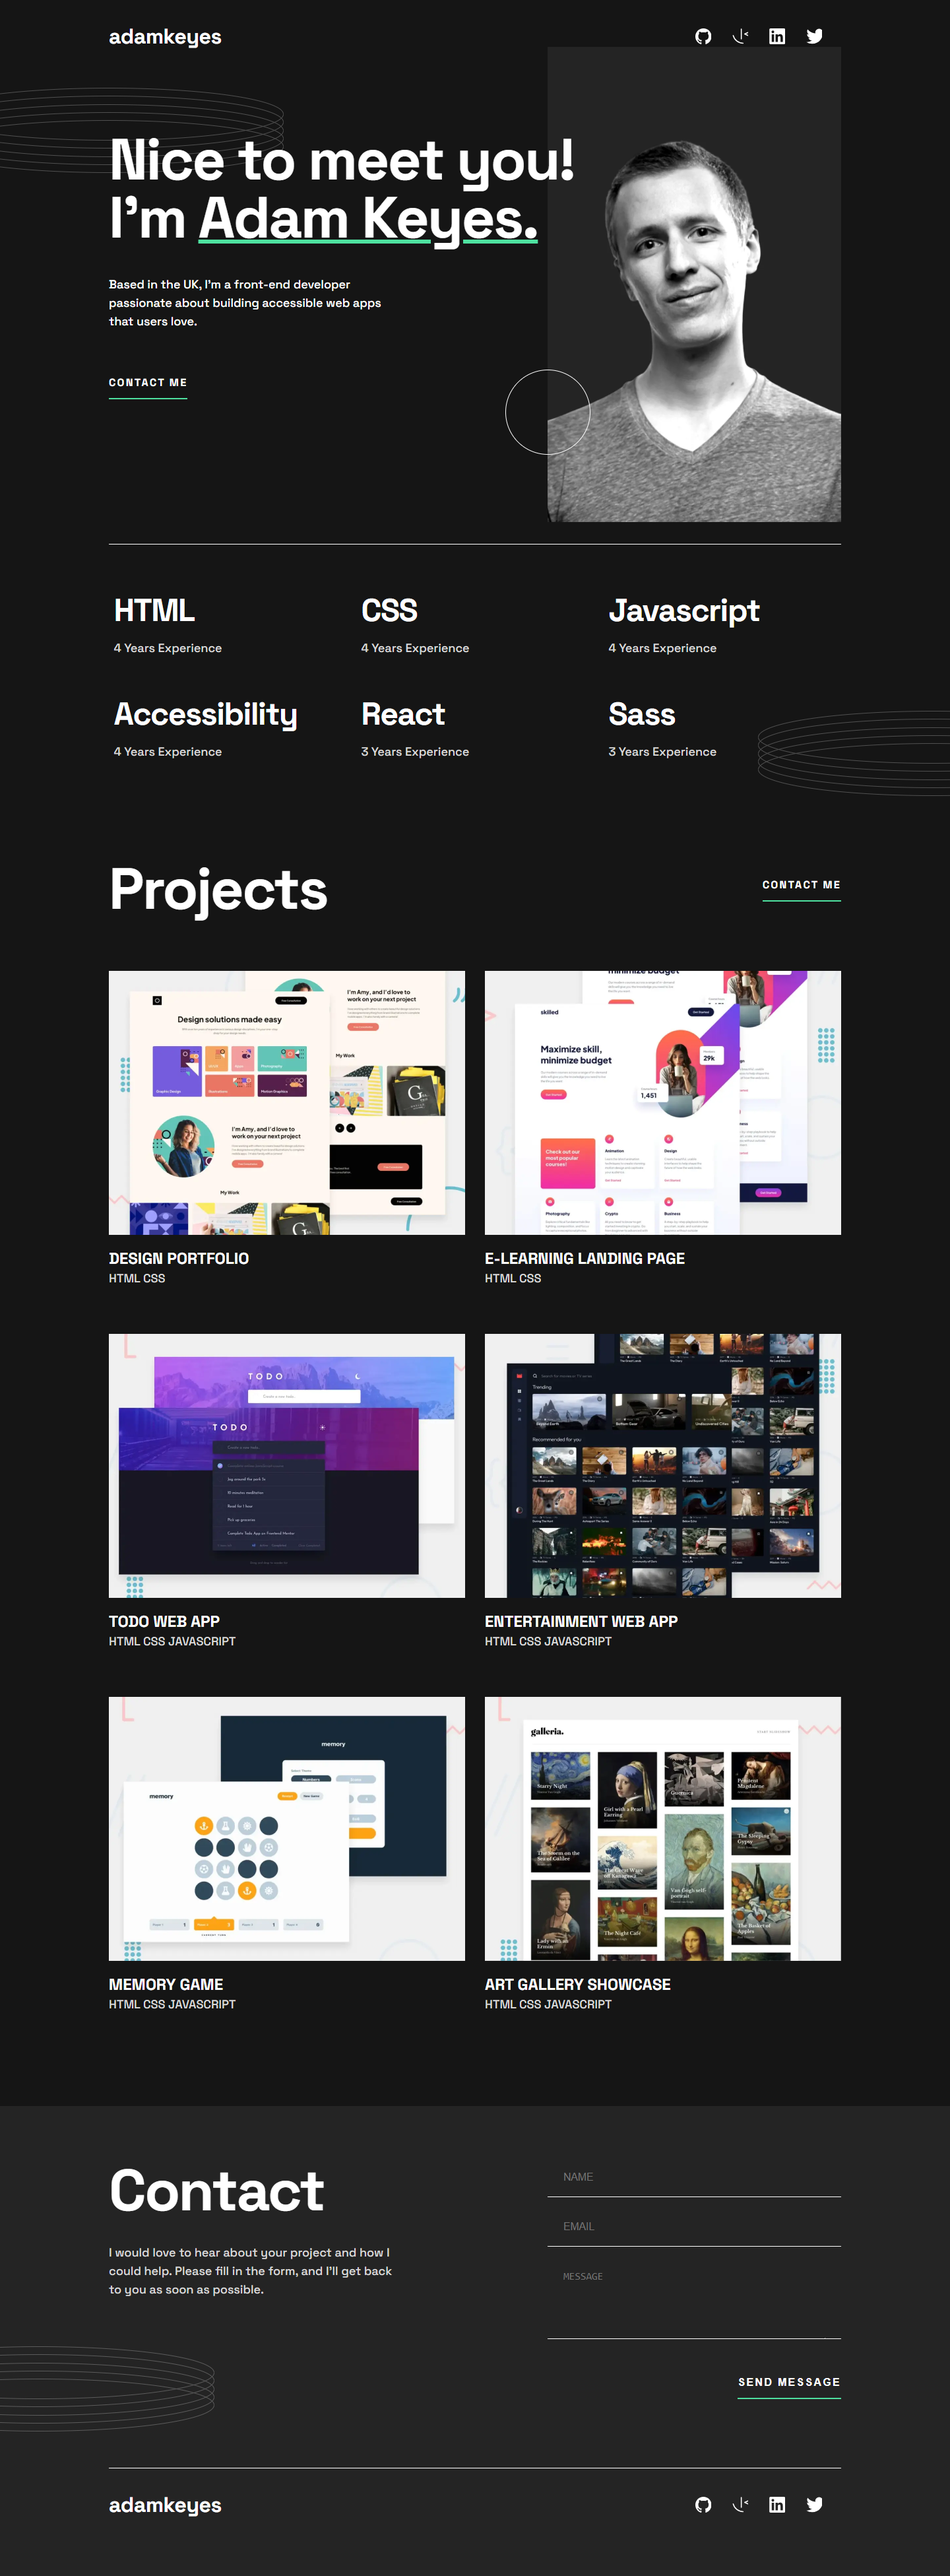
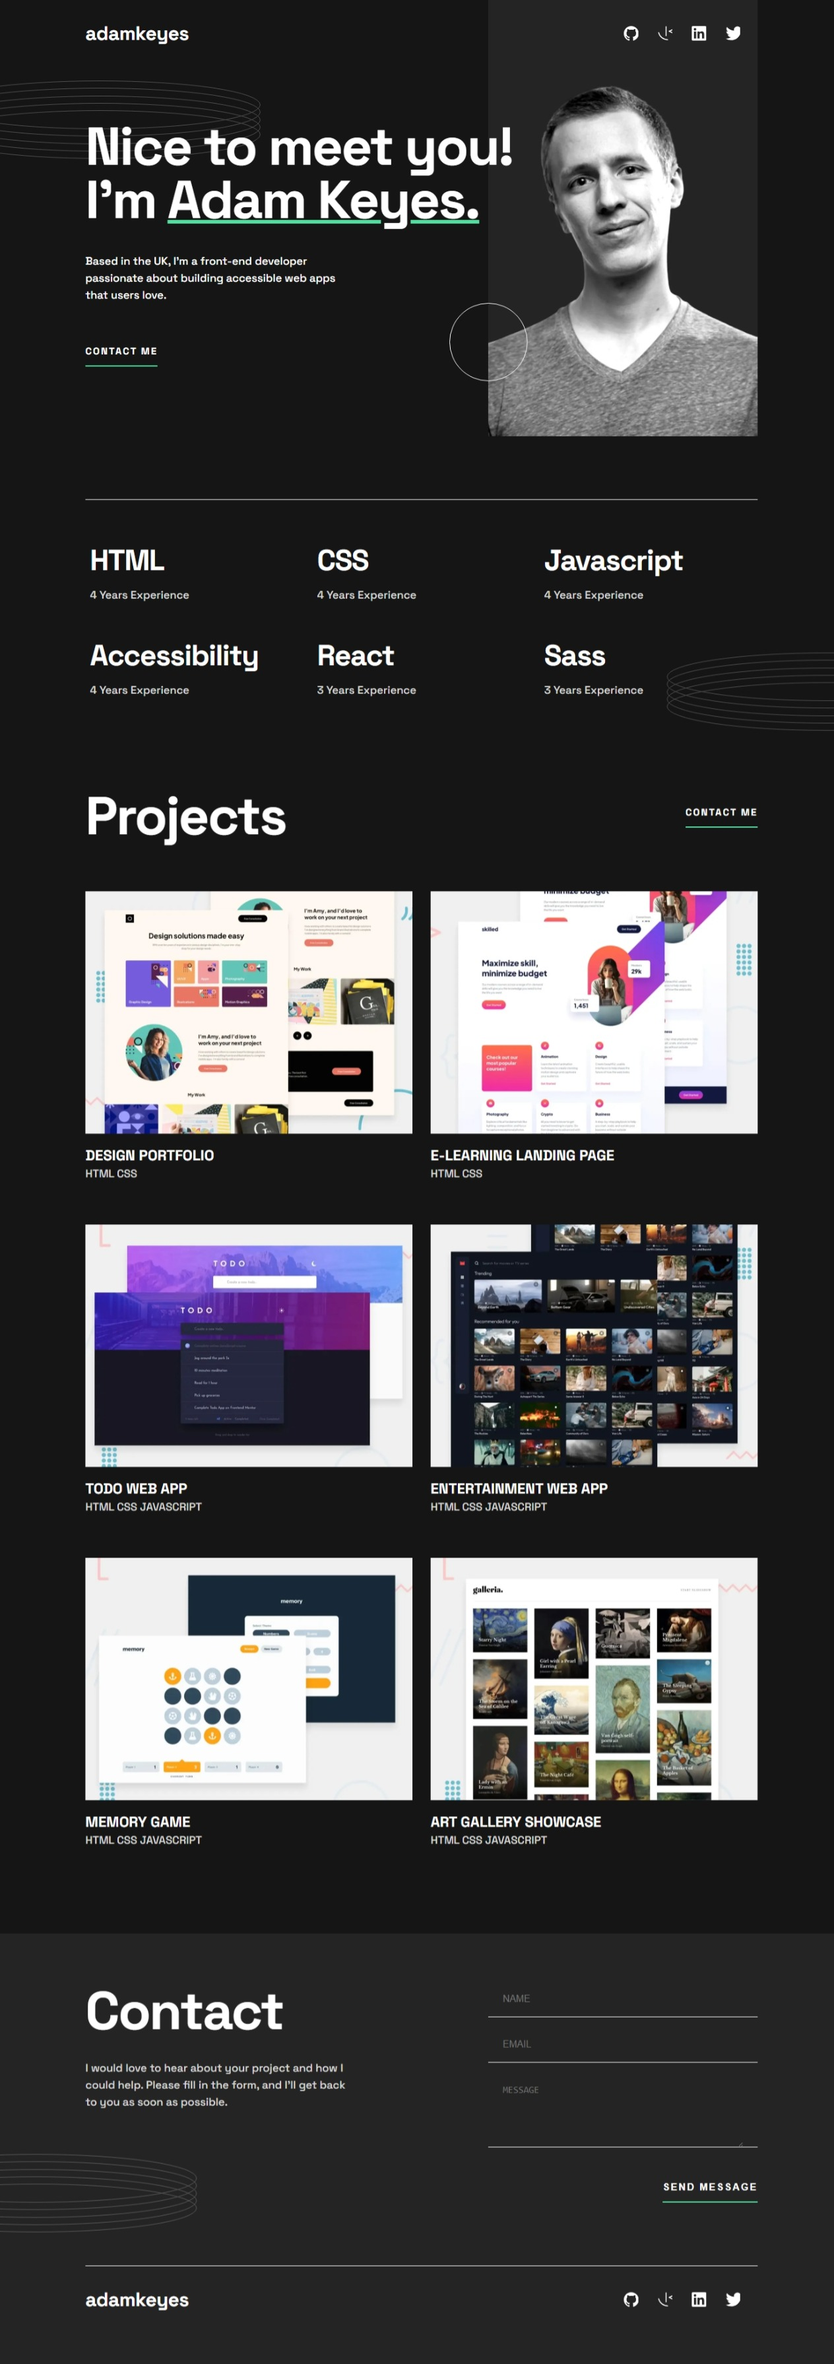
bug na imagem resolvido

diff --git a/src/component/hero/hero.module.scss b/src/component/hero/hero.module.scss
@@ -2,7 +2,6 @@
 @import '../../assets/style/mixins';
 
 .header {
-    position: relative;
     height: 753px;
 
     @include max-breakpoint($tablet) {
@@ -118,6 +117,7 @@
 
         @include max-breakpoint($mobile) {
             background-image: url('../../assets/images/image-profile-mobile.webp');
+            position: relative;
             width: 174px;
             height: 383px;
             left: 50%;

diff --git a/src/page/App.module.scss b/src/page/App.module.scss
@@ -99,11 +99,11 @@
     .circle {
       position: absolute;
       right: 380px;
-      top: 560px;
+      top: 500px;
       z-index: 10;
 
       @include max-breakpoint($tablet) {
-        top: 540px;
+        top: 470px;
         right: -63.5px;
       }
 

diff --git a/README.md b/README.md
@@ -22,7 +22,7 @@ Challenge website: [Single-page developer portfolio](https://www.frontendmentor.
 
 ### Screenshot
 
-<img src="./src/assets/images/desktop screenshot.png" alt="Screenshot of the computer project" width="300" height="500">
+<img src="./src/assets/images/desktop screenshot.png" alt="Screenshot of the computer project" width="400" height="900">
 
 ### Links
 
